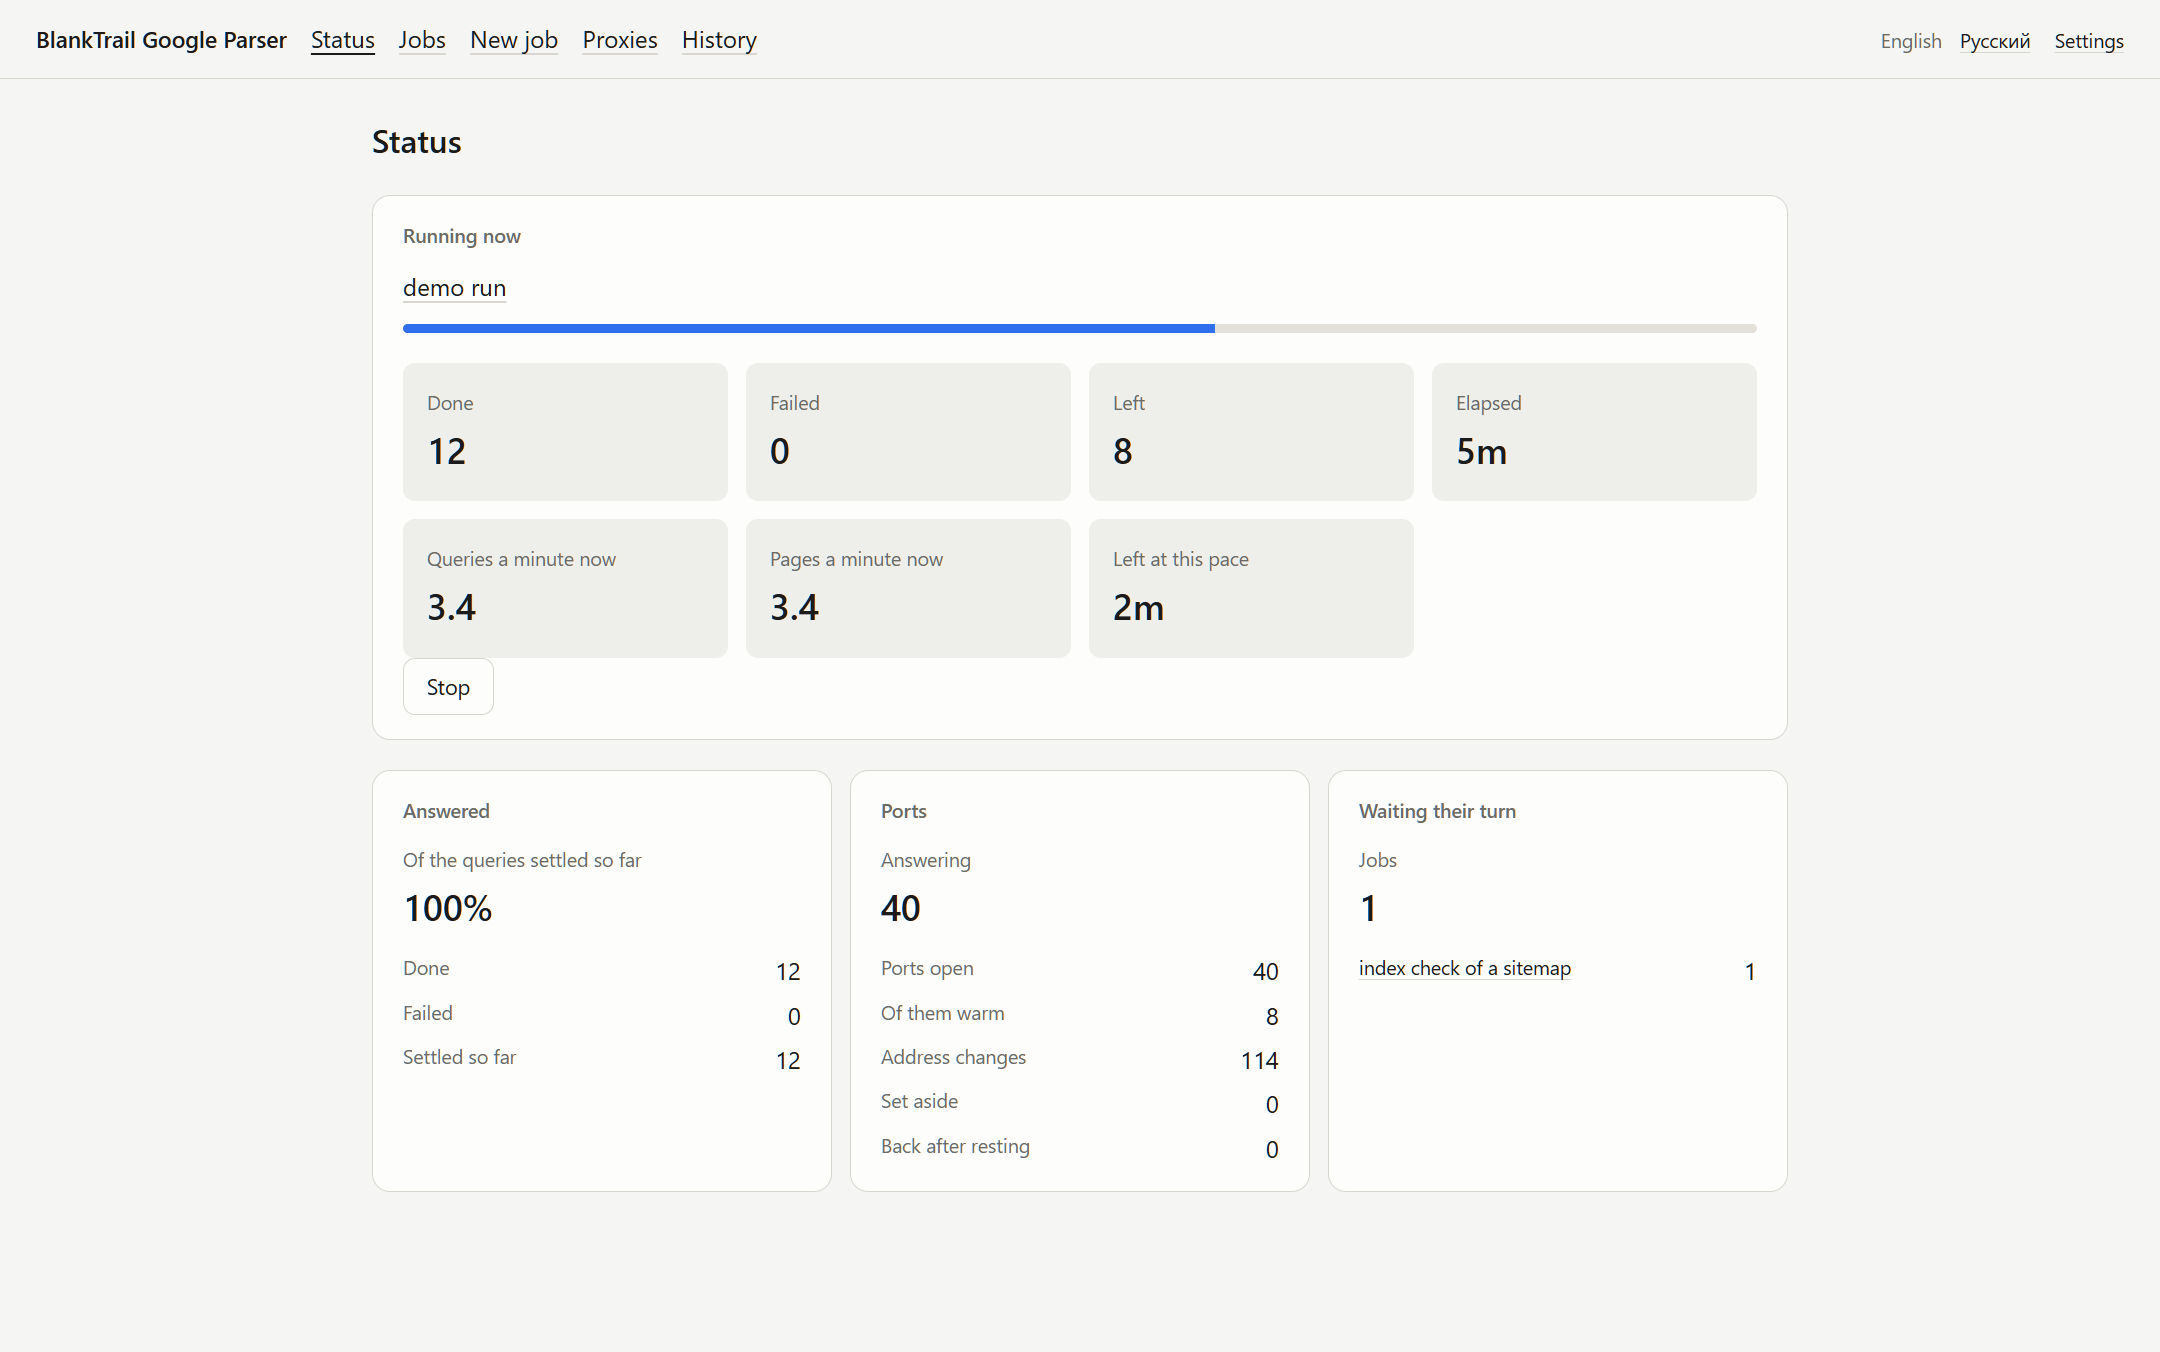
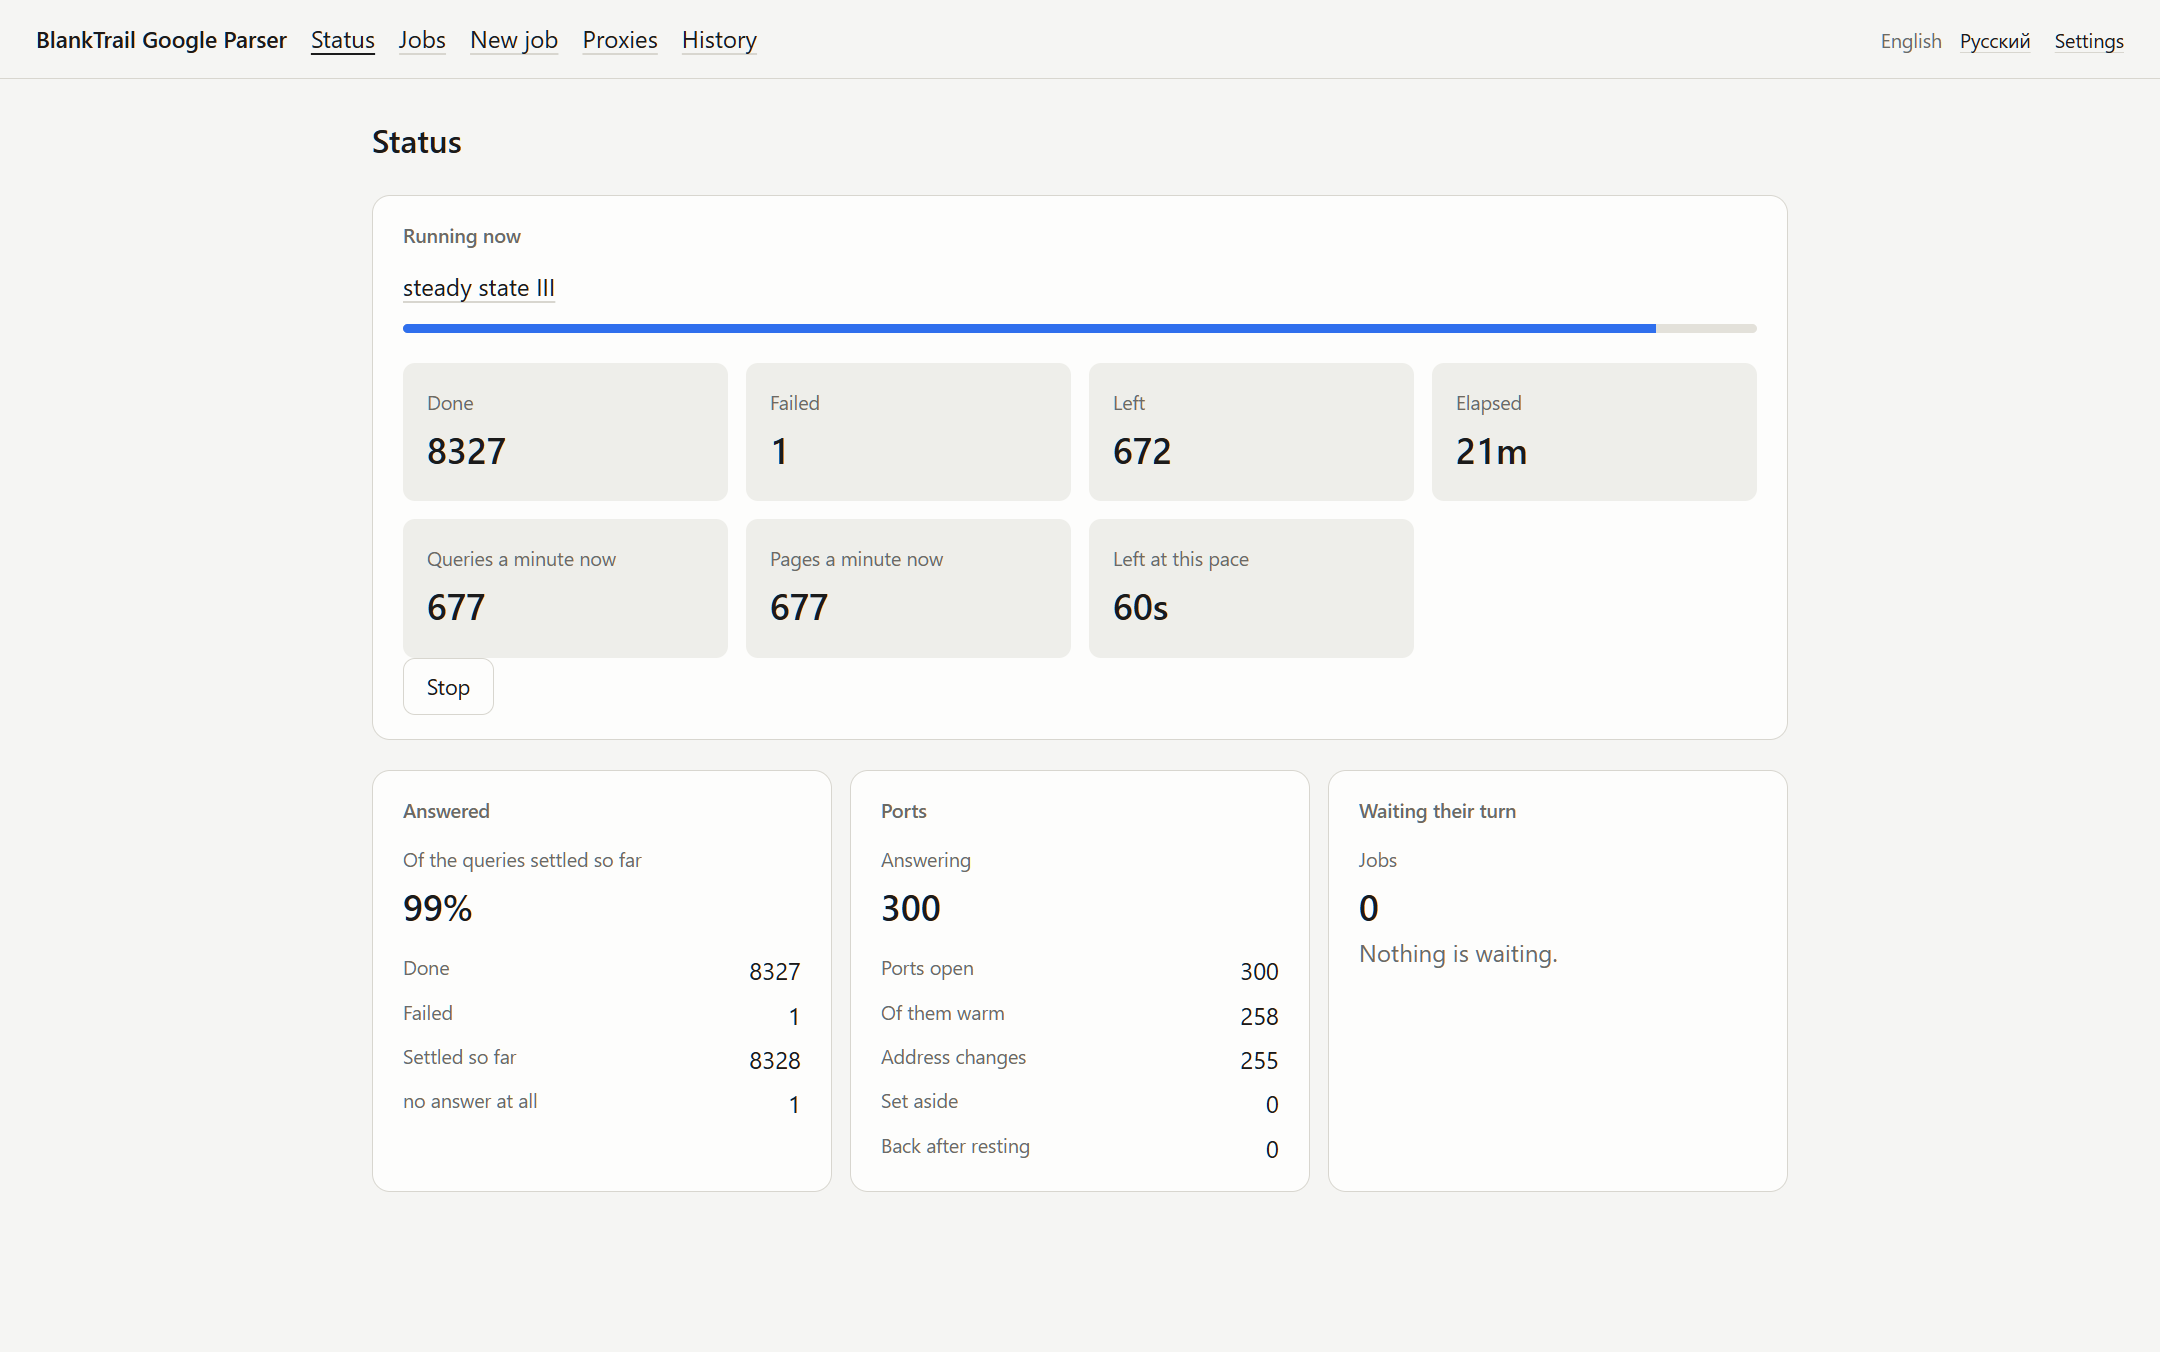
docs: take the status and proxy screens on a warmed pool
The first pair were shot on twenty ports during a cold start, which is
the least representative moment there is: three queries a minute on the
status screen and sixty-one per cent of attempts failing on the proxy
one. Both are true and neither is what this does.

Re-taken on three hundred identities warmed inside one job: 825 queries a
minute, ninety-nine per cent of queries answered, and on the proxy screen
seven per cent of attempts failing with the counts cleared a few minutes
before the shot. The caption says as much, so nobody has to guess what
they are looking at.

Getting them took three tries at the same trap: the screens ask the
server to redraw them every five seconds, and each redraw put the real
address list back into the box that had been blanked for the shot.
Blocking the redraw before the page loads is what finally held.

diff --git a/README.ru.md b/README.ru.md
@@ -87,10 +87,9 @@
 
 ![Экран прокси: состояние пула, что отказало и какого рода, и список адресов](assets/screenshots/proxies-ru.png)
 
-*Небольшой демо-пул на двадцать портов по изрядно поработавшему списку. Доля
-ошибок здесь — то, что этот список даёт на таком размере; цифры в разделе
-[Производительность](#-производительность) сняты на трёхстах прогретых
-личностях.*
+*Триста прогретых личностей на списке из пятнадцати тысяч адресов: 7% попыток
+с ошибкой, и почти все — адреса, которые не ответили вовсе. Счётчики обнулены
+за несколько минут до снимка — ровно для этого кнопка и нужна.*
 
 ### Выгрузка и API
 

diff --git a/README.md b/README.md
@@ -84,9 +84,10 @@ Powered by [BlankTrail Proxy](https://blanktrail.com).
 
 ![The proxy screen: the pool as it stands, what failed and of what kind, and the address list](assets/screenshots/proxies-en.png)
 
-*A small twenty-port demo pool on a much-used list. The failure share is what
-this list gives at this size; the figures in [Performance](#-performance) are
-from three hundred identities on a warmed pool.*
+*Three hundred identities, warmed, on a fifteen-thousand-address list: seven
+per cent of attempts fail and nearly all of those are addresses that never
+answered. The counts were cleared a few minutes before the shot, which is what
+the button is for.*
 
 ### Export and API
 
